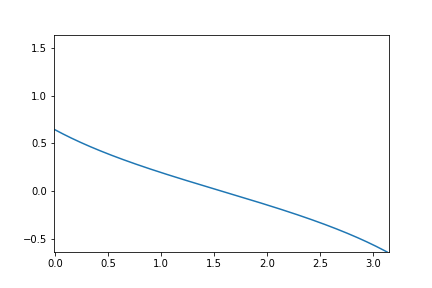
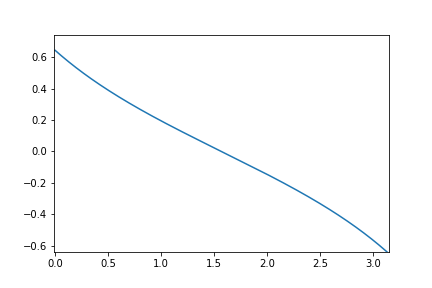
add Filter class and save mag and phase res

diff --git a/classes/filter.py b/classes/filter.py
@@ -7,15 +7,37 @@ class Filter():
     def __init__(self) -> None:
         self.zeros = []
         self.poles = []
-        self.gain = 0
-    def set_zeros(self, zeros):
+        self.gain = 1
+    def set_zeros(self, zeros:list) -> None:
         self.zeros = zeros
-    def set_poles(self, poles):
+    def set_poles(self, poles:list) -> None:
         self.poles = poles
-    def set_gain(self, gain):
+    def set_gain(self, gain:float) -> None:
         self.gain = gain
     def get_response(self) -> tuple:
         frequency, response = signal.freqz_zpk(self.zeros, self.poles, self.gain)
         magnitude = 20*np.log(np.abs(response))
         phase = np.unwrap(np.angle(response))
         return (frequency, magnitude, phase)
+    def plot_response(self, frequency, magnitude,phase):
+        plt.figure()
+        plt.ylabel('dB')
+        plt.xlabel('Frequency')
+        plt.plot(frequency, magnitude)
+        plt.xlim(-0.01,np.pi+0.01)
+        plt.title('Magnitude Response')
+        plt.savefig('./static/magnitude.png')
+        plt.figure()
+        plt.ylabel('Phase')
+        plt.xlabel('Frequency')
+        plt.title('Phase Response')
+        plt.plot(frequency, phase)
+        plt.xlim(-0.01,np.pi+0.01)
+        plt.savefig('./static/phase.png')
+    # def plot_response_phase(self, frequency, phase):
+    #     plt.plot(frequency, phase)
+    #     plt.ylabel('Magnitude [dB]')
+    #     plt.xlabel('Frequency [rad/sample]')
+    #     plt.title('Phase Response')
+    #     plt.xlim(-0.01,np.pi+0.01)
+    #     plt.savefig('./static/phase.png')
